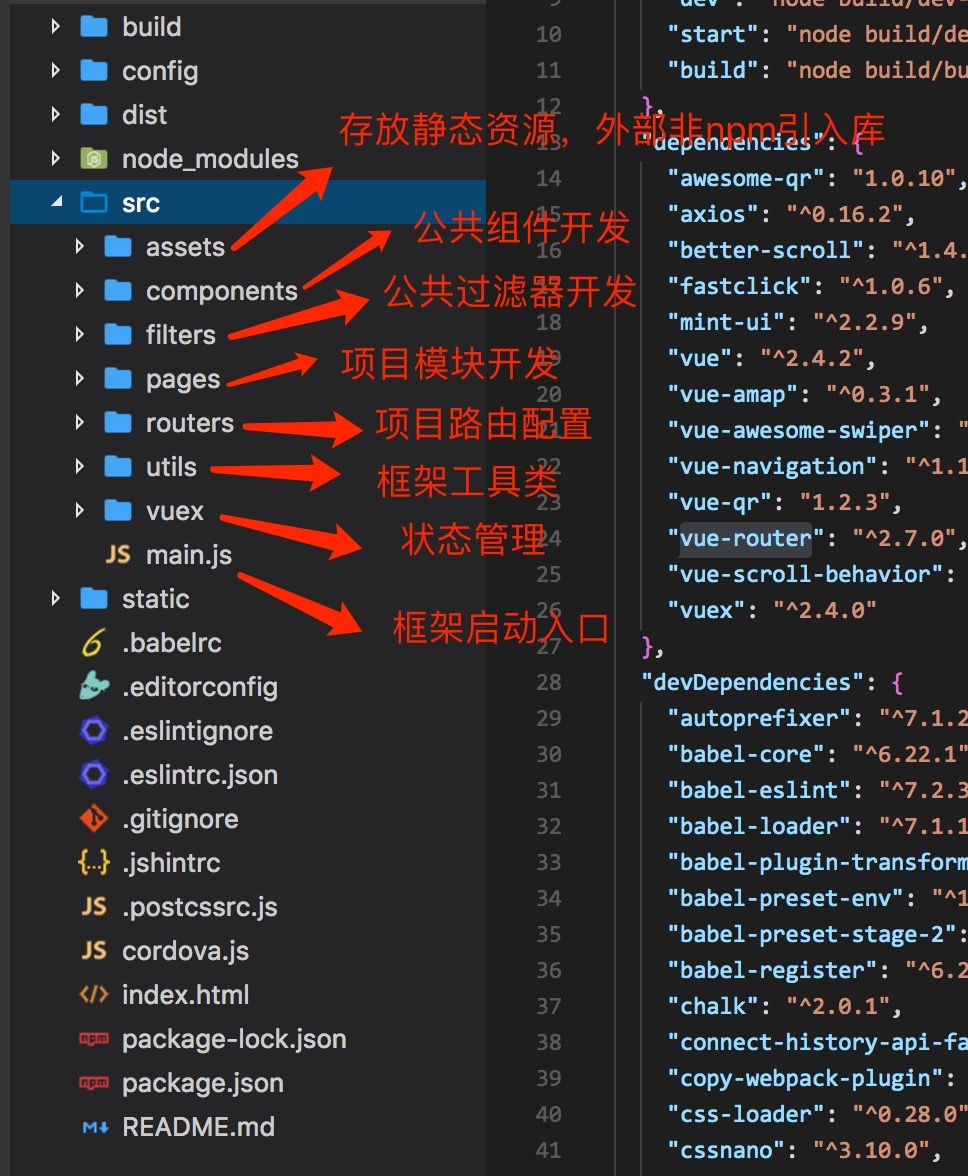
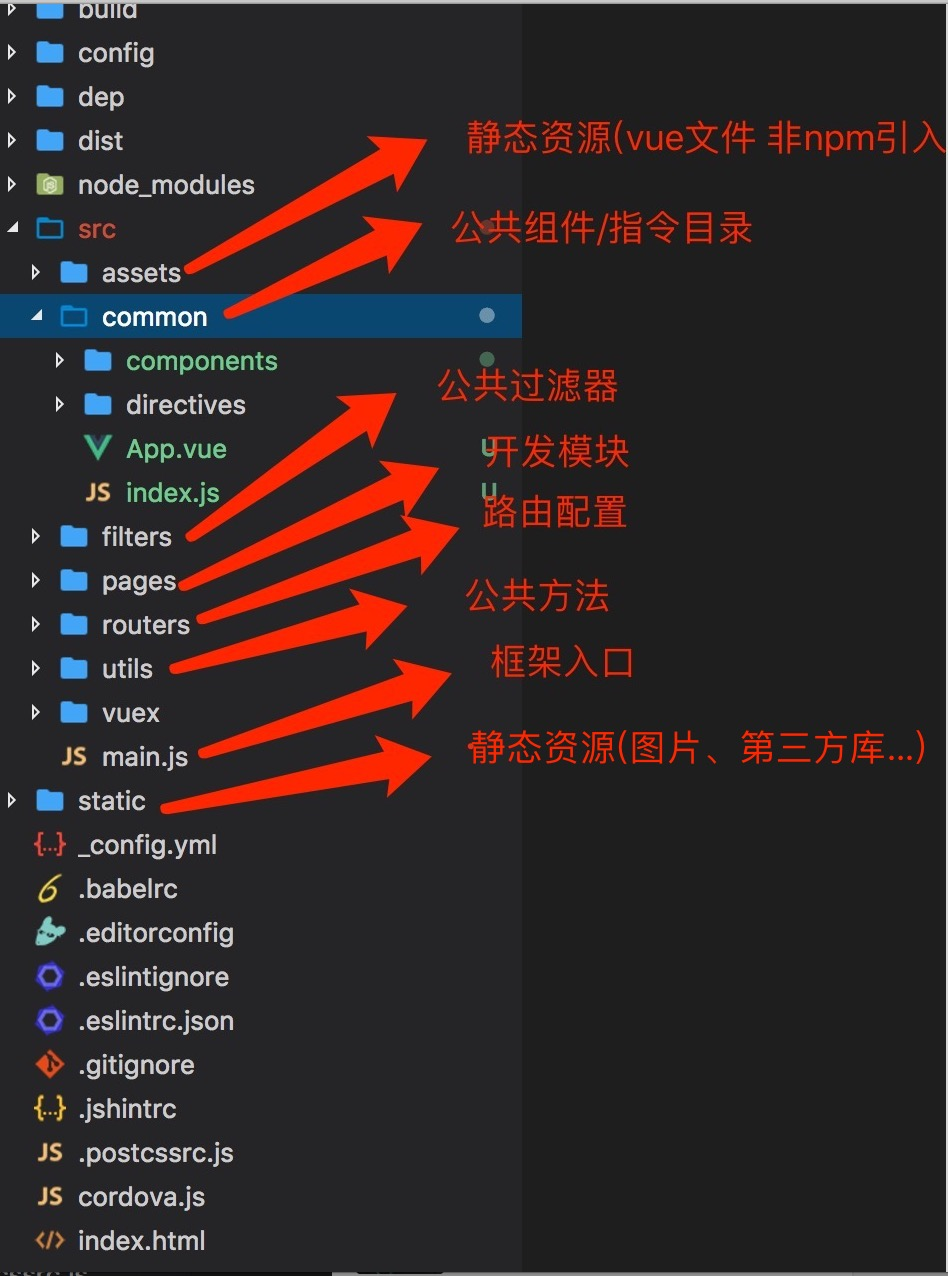
更改目录

Changed region(s): [[0.0, 0.0, 1.0, 1.0], [0.3365, 0.9796, 0.4283, 1.0]]

diff --git a/src/common/index.js b/src/common/index.js
@@ -2,19 +2,19 @@
  * @Author: jdf
  * @Date: 2018-01-04 16:18:23
  * @Last Modified by: jdf
- * @Last Modified time: 2018-01-11 11:24:49
+ * @Last Modified time: 2018-01-11 17:02:33
  * @desc 自定义组件集合
  */
 // 引入组件
-import N22Field from './common/n22Field'
-import N22Address from './common/n22Address'
-import N22Calendar from './common/n22Calendar'
-import N22Page from './common/n22Page'
-import N22Tab from './common/n22Tab'
-import N22Zoom from './common/n22Zoom'
-import n22Switch from './common/n22Switch'
-import n22Input from './common/n22Input'
-import N22DatePicker from './common/N22DatePicker'
+import N22Field from './components/n22Field'
+import N22Address from './components/n22Address'
+import N22Calendar from './components/n22Calendar'
+import N22Page from './components/n22Page'
+import N22Tab from './components/n22Tab'
+import N22Zoom from './components/n22Zoom'
+import n22Switch from './components/n22Switch'
+import n22Input from './components/n22Input'
+import N22DatePicker from './components/N22DatePicker'
 
 // 定义组件集合
 const components = {
